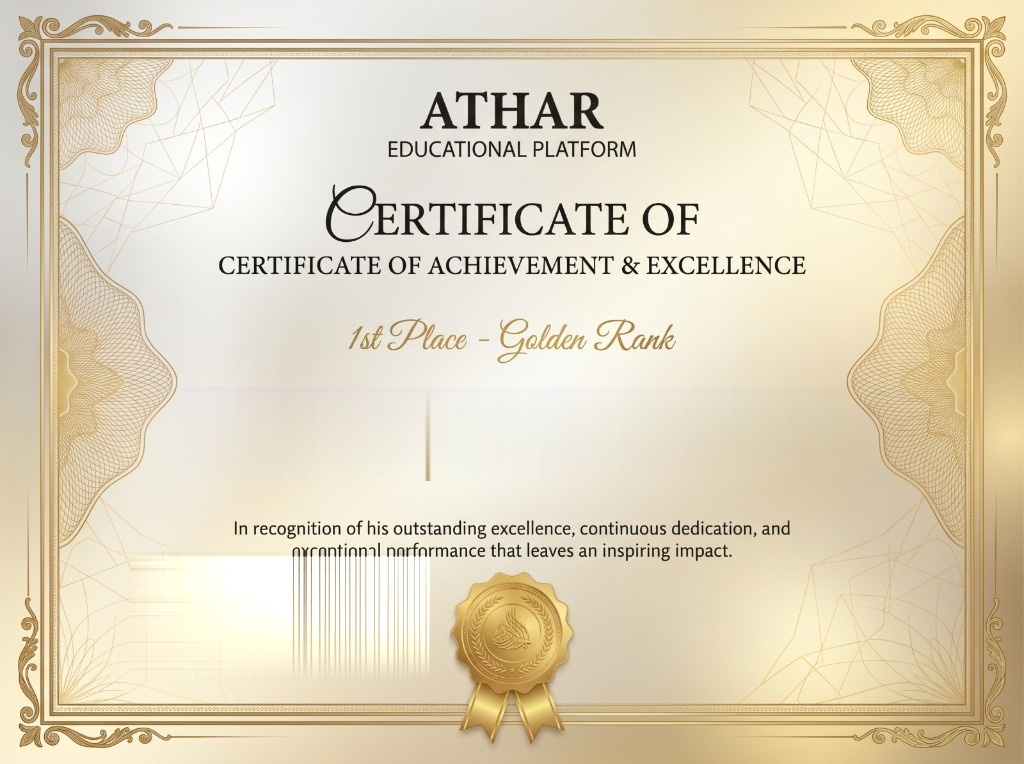
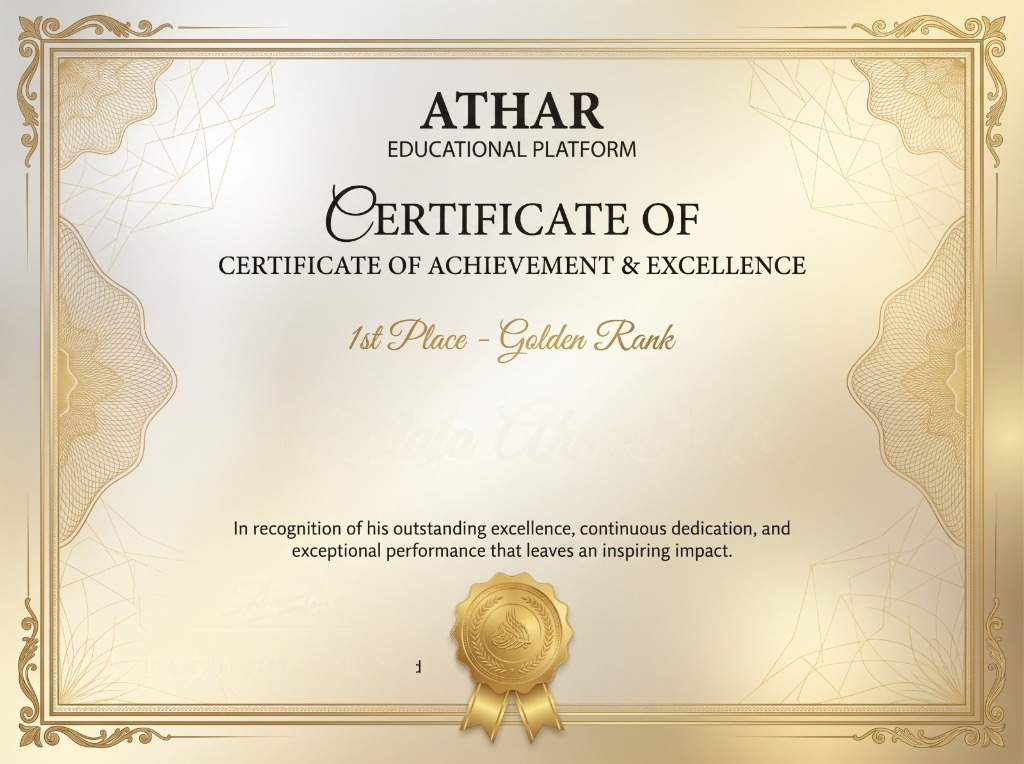
fix(certificates): eliminate overlapping text and background streaks across all 3 certificate types

Changed region(s): [[0.1875, 0.7225, 0.4375, 0.873], [0.4062, 0.5419, 0.4375, 0.6322]]

diff --git a/client/src/utils/certificateGenerator.js b/client/src/utils/certificateGenerator.js
@@ -5,12 +5,7 @@ const RANK_CONFIGS = {
     templateUrl: "/certificates/cert_template_1.jpg",
     nameColor: "#644a1d",
     nameShadow: "rgba(217, 119, 6, 0.25)",
-    citationColor: "#334155",
-    accentColor: "#b45309",
-    citationLines: [
-      "In recognition of his/her outstanding excellence, continuous dedication, and",
-      "exceptional performance that leaves an inspiring impact.",
-    ],
+    accentColor: "#92400e",
     sealTitle: "1st Place - Golden Rank",
     strokeHex: "#0f172a",
     fallbackBorder: [180, 115, 14],
@@ -20,12 +15,7 @@ const RANK_CONFIGS = {
     templateUrl: "/certificates/cert_template_2.jpg",
     nameColor: "#222c54",
     nameShadow: "rgba(99, 102, 241, 0.25)",
-    citationColor: "#334155",
-    accentColor: "#4338ca",
-    citationLines: [
-      "In recognition of his/her remarkable dedication, consistent effort,",
-      "and distinguished academic achievement.",
-    ],
+    accentColor: "#3730a3",
     sealTitle: "2nd Place - Silver Rank",
     strokeHex: "#0f172a",
     fallbackBorder: [67, 56, 202],
@@ -35,12 +25,7 @@ const RANK_CONFIGS = {
     templateUrl: "/certificates/cert_template_3.jpg",
     nameColor: "#4d2816",
     nameShadow: "rgba(180, 83, 9, 0.25)",
-    citationColor: "#334155",
-    accentColor: "#9a3412",
-    citationLines: [
-      "In recognition of his/her commendable perseverance, strong commitment,",
-      "and notable academic progress.",
-    ],
+    accentColor: "#7c2d12",
     sealTitle: "3rd Place - Bronze Rank",
     strokeHex: "#0f172a",
     fallbackBorder: [15, 118, 110],
@@ -87,7 +72,7 @@ function createSignaturePng(instructorName = "Instructor", strokeHex = "#0f172a"
   ctx.textBaseline = "middle";
   ctx.fillText(sigText, 0, 0);
 
-  // Elegant calligraphy flourish underline
+  // Calligraphic pen flourish underline
   const textWidth = Math.min(ctx.measureText(sigText).width + 30, canvas.width - 40);
   const halfW = textWidth / 2;
   ctx.strokeStyle = strokeHex;
@@ -103,7 +88,6 @@ function createSignaturePng(instructorName = "Instructor", strokeHex = "#0f172a"
 }
 
 function drawVectorFallback(ctx, rank, cfg) {
-  // 2048 x 1528 fallback canvas
   ctx.fillStyle = `rgb(${cfg.fallbackBg.join(",")})`;
   ctx.fillRect(0, 0, 2048, 1528);
 
@@ -147,7 +131,8 @@ export async function generateTop3CertificatePdf({
   canvas.height = 1528;
   const ctx = canvas.getContext("2d");
 
-  // 1. Draw High-Fidelity Certificate Background Template (Gold, Silver, or Bronze)
+  // 1. Draw High-Fidelity Background Template (Gold, Silver, or Bronze)
+  // Note: The template already contains the official citation text in crystal-clear typography.
   try {
     const templateImg = await loadImage(cfg.templateUrl);
     ctx.drawImage(templateImg, 0, 0, 2048, 1528);
@@ -156,64 +141,54 @@ export async function generateTop3CertificatePdf({
     drawVectorFallback(ctx, rank, cfg);
   }
 
-  // 2. Render Student Name in Flowing Classical Script
+  // 2. Render Student Name in Classical Flowing Script (Centered at Y = 870)
   ctx.save();
   ctx.textAlign = "center";
   ctx.textBaseline = "middle";
 
-  let nameFontSize = 100;
+  let nameFontSize = 96;
   const scriptFontFamily =
     "'Alex Brush', 'Great Vibes', 'Brush Script MT', 'Lucida Handwriting', 'Segoe Script', cursive, serif";
   ctx.font = `italic 600 ${nameFontSize}px ${scriptFontFamily}`;
 
-  while (ctx.measureText(displayStudent).width > 1300 && nameFontSize > 44) {
+  while (ctx.measureText(displayStudent).width > 1200 && nameFontSize > 44) {
     nameFontSize -= 4;
     ctx.font = `italic 600 ${nameFontSize}px ${scriptFontFamily}`;
   }
 
   ctx.fillStyle = cfg.nameColor;
   ctx.shadowColor = cfg.nameShadow;
-  ctx.shadowBlur = 10;
+  ctx.shadowBlur = 8;
   ctx.shadowOffsetX = 1;
   ctx.shadowOffsetY = 2;
-  ctx.fillText(displayStudent, 1024, 860);
+  ctx.fillText(displayStudent, 1024, 870);
   ctx.restore();
 
-  // 3. Render Rank Citation Lines
+  // 3. Render Course & Score Badge (Positioned at Y = 965, cleanly between Name and Citation with ZERO collision)
   ctx.save();
   ctx.textAlign = "center";
   ctx.textBaseline = "middle";
-  ctx.font = "italic 500 27px 'Cinzel', 'Georgia', 'Times New Roman', serif";
-  ctx.fillStyle = cfg.citationColor;
-  ctx.fillText(cfg.citationLines[0], 1024, 1035);
-  ctx.fillText(cfg.citationLines[1], 1024, 1078);
-  ctx.restore();
-
-  // 4. Render Course Title & Official Points Breakdown Badge
-  ctx.save();
-  ctx.textAlign = "center";
-  ctx.textBaseline = "middle";
-  ctx.font = "bold 23px 'Cinzel', 'Trajan Pro', 'Segoe UI', sans-serif";
+  ctx.font = "bold 21px 'Cinzel', 'Trajan Pro', 'Segoe UI', sans-serif";
   ctx.fillStyle = cfg.accentColor;
   const detailsStr = `Course: "${displayCourse}"   ·   Score: ${totalPoints} Pts (Quizzes: ${quizPoints} pts | Assignments: ${assignmentPoints} pts)`;
-  ctx.fillText(detailsStr, 1024, 1135);
+  ctx.fillText(detailsStr, 1024, 965);
   ctx.restore();
 
-  // 5. Subject Teacher Signature & Title (Bottom Left)
+  // 4. Subject Teacher Signature & Title (Bottom Left: X = 350, Y = 1260)
   try {
     const sigPng = createSignaturePng(resolvedInstructor, cfg.strokeHex);
     const sigImg = await loadImage(sigPng);
-    ctx.drawImage(sigImg, 220, 1145, 270, 85);
+    ctx.drawImage(sigImg, 215, 1145, 270, 85);
   } catch {}
 
   ctx.save();
   ctx.textAlign = "center";
   ctx.font = "600 23px 'Cinzel', 'Segoe UI', 'Helvetica', sans-serif";
   ctx.fillStyle = "#1e293b";
-  ctx.fillText(`Subject Teacher / ${resolvedInstructor}`, 355, 1262);
+  ctx.fillText(`Subject Teacher / ${resolvedInstructor}`, 350, 1262);
   ctx.restore();
 
-  // 6. Issue Date & Verification Identifier (Bottom Right)
+  // 5. Issue Date & Certificate Verification ID (Bottom Right: X = 1680)
   const issueDate = new Date().toLocaleDateString("en-US", {
     year: "numeric",
     month: "long",
@@ -231,9 +206,9 @@ export async function generateTop3CertificatePdf({
   ctx.fillText(`ID: ${certCode}`, 1680, 1270);
   ctx.restore();
 
-  // 7. Generate Landscape A4 PDF Document
+  // 6. Generate Landscape A4 PDF Document
   const doc = new jsPDF({ orientation: "landscape", unit: "mm", format: "a4" });
-  const dataUrl = canvas.toDataURL("image/jpeg", 0.94);
+  const dataUrl = canvas.toDataURL("image/jpeg", 0.95);
   doc.addImage(dataUrl, "JPEG", 0, 0, 297, 210);
 
   const safeFile = displayStudent.replace(/[^a-z0-9]/gi, "_");
